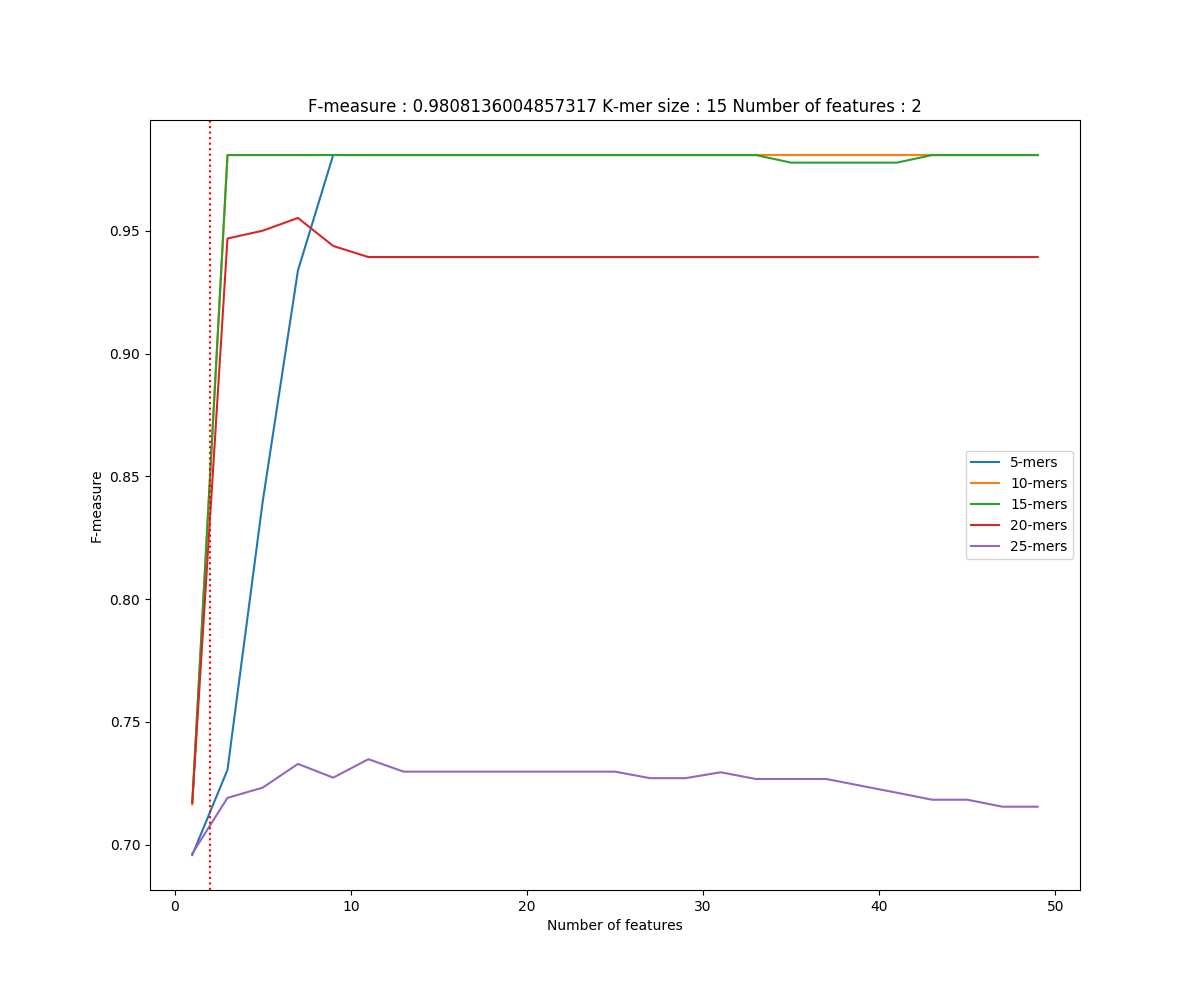
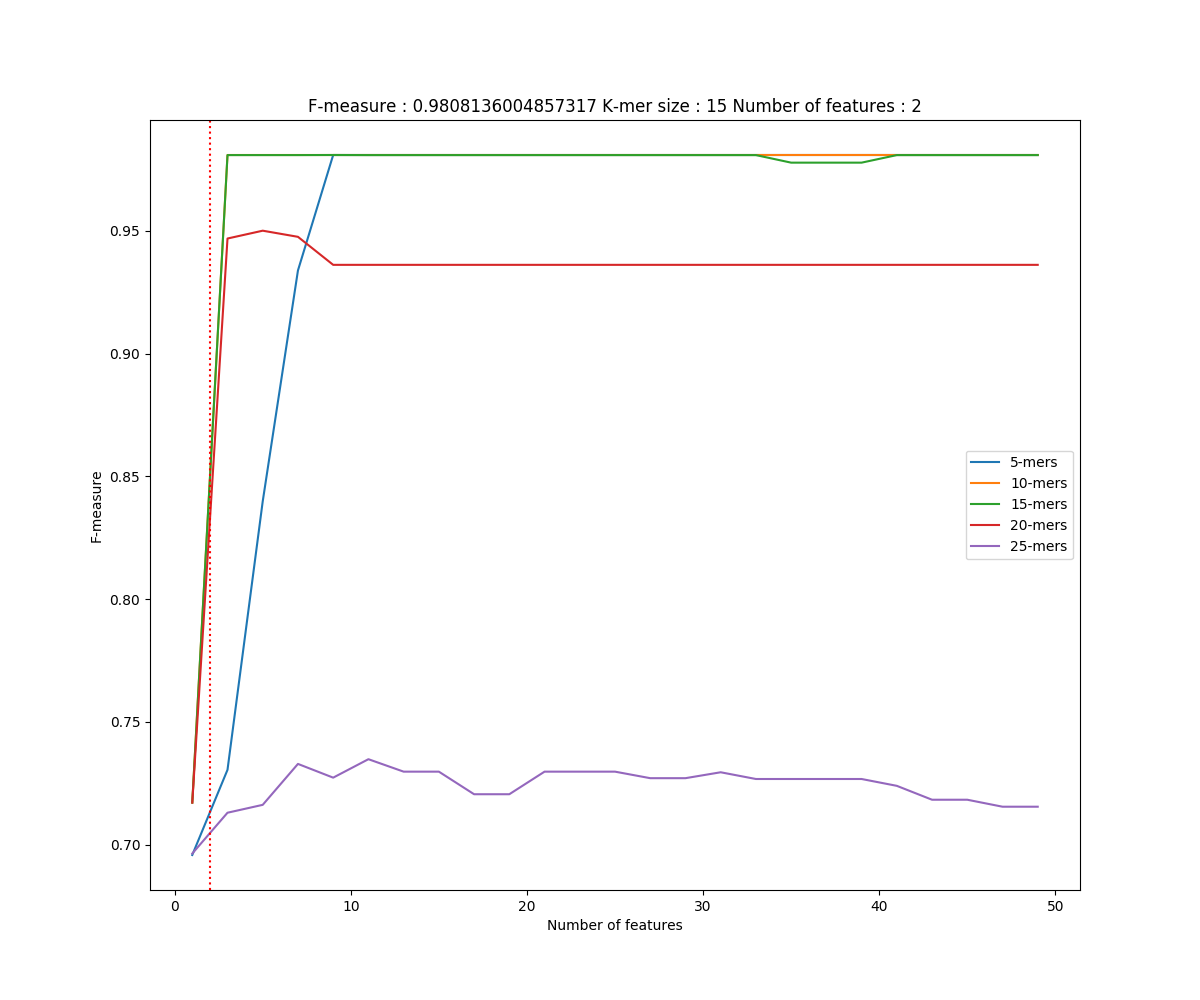
testing time

diff --git a/viral/viral_classification/feature_extractor.py b/viral/viral_classification/feature_extractor.py
@@ -144,7 +144,8 @@ def maxMinNormalization(X):
 ###################################################################################################
 #############################     RECURSIVE FEATURE ELIMINATION     ###############################
 def recursiveFeatureElimination(X, y, k_mers, features_max):
-    preliminary_rfe_step = 0.1
+    #preliminary_rfe_step = 0.1
+    preliminary_rfe_step = 1
     clf = SVC(kernel = "linear", C = 1)   
     
     if len(X[0]) > features_max:
@@ -194,9 +195,9 @@ def evaluateFeatureSizes(X, y, k_mers, range_features, features_max, n_splits):
 
             # Prediction
 
-            start_time = time.clock()
+            #start_time = time.clock()
             clf.fit(X_train, y_train)
-            print(time.clock() - start_time, "seconds")
+            #print(time.clock() - start_time, "seconds")
             y_pred = clf.predict(X_test)
         
             # Calcul metric scores
@@ -298,7 +299,7 @@ def getBestKmersAndFeatures(path):
         
         start_time = time.clock()
         k_mers      = generate_K_mers(trainingData, k) #list of substring of size k: (if k = 2; k_mers= [AT, CG, AC, ...])    
-        print('generate_K_mers took', time.clock() - start_time, "seconds")
+        print('generate_K_mers took', time.clock() - start_time, "seconds", "feature size ", len(k_mers))
 
         start_time = time.clock()
         X, y        = generateXYMatrice(trainingData, k_mers, k) # OCURERNCE MATRIX
@@ -309,6 +310,7 @@ def getBestKmersAndFeatures(path):
         print('maxMinNormalization took', time.clock() - start_time, "seconds")
 
         start_time = time.clock()
+        print("feature size ", len(k_mers))
         X, k_mers   = recursiveFeatureElimination(X, y, k_mers, features_max)
         print('recursiveFeatureElimination took', time.clock() - start_time, "seconds")
                            
